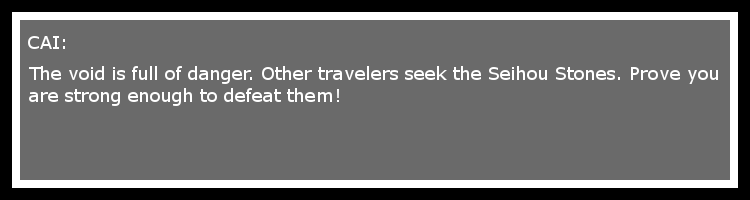
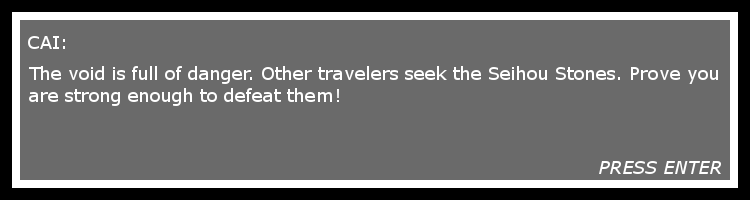
CAI now speaks and then shuts up...
Added tutorial preboss talk...

Changed region(s): [[0.7973, 0.78, 0.9813, 0.87]]

diff --git a/src/main/java/org/atoiks/games/seihou2/scenes/TutorialScene.java b/src/main/java/org/atoiks/games/seihou2/scenes/TutorialScene.java
@@ -17,6 +17,7 @@ public final class TutorialScene extends AbstractGameScene {
     private Clip bgm;
     private Image tutorialImg;
     private Image controlsImg;
+    private Image talkImg;
     private boolean controlsGone;
 
     public TutorialScene() {
@@ -29,6 +30,7 @@ public final class TutorialScene extends AbstractGameScene {
         super.enter(prevSceneId);
 
         tutorialImg = (Image) scene.resources().get("z.png");
+        talkImg = null;
         controlsImg = (Image) scene.resources().get("controls.png");
 
         bgm = (Clip) scene.resources().get("Awakening.wav");
@@ -56,6 +58,14 @@ public final class TutorialScene extends AbstractGameScene {
         if (controlsImg != null) {
             g.drawImage(controlsImg, 0, 0, null);
         }
+    }
+
+    @Override
+    public void renderStats(final Graphics g){
+      super.renderStats(g);
+      if (talkImg != null) {
+          g.drawImage(talkImg, 0, HEIGHT - 200, null);
+      }
     }
 
     @Override
@@ -91,7 +101,14 @@ public final class TutorialScene extends AbstractGameScene {
                     }
                     break;
                 case 2:
-                    // Boss
+                        tutorialImg = null;
+                        talkImg = (Image) scene.resources().get("tutorial_preboss_1.png");
+                        if(scene.keyboard().isKeyPressed(KeyEvent.VK_ENTER)){
+                          waveCounter = 3;
+                        }
+                    break;
+                case 3:
+                    talkImg = null;
                     break;
             }
         }

diff --git a/src/main/java/org/atoiks/games/seihou2/scenes/LoadingScene.java b/src/main/java/org/atoiks/games/seihou2/scenes/LoadingScene.java
@@ -90,6 +90,7 @@ public final class LoadingScene extends Scene {
                     loadImageFromResources("controls.png");
                     loadImageFromResources("opt_shield.png");
                     loadImageFromResources("config.png");
+                    loadImageFromResources("tutorial_preboss_1.png");
 
                     loadMusicFromResources("Enter_The_Void.wav");
                     loadMusicFromResources("Awakening.wav");
